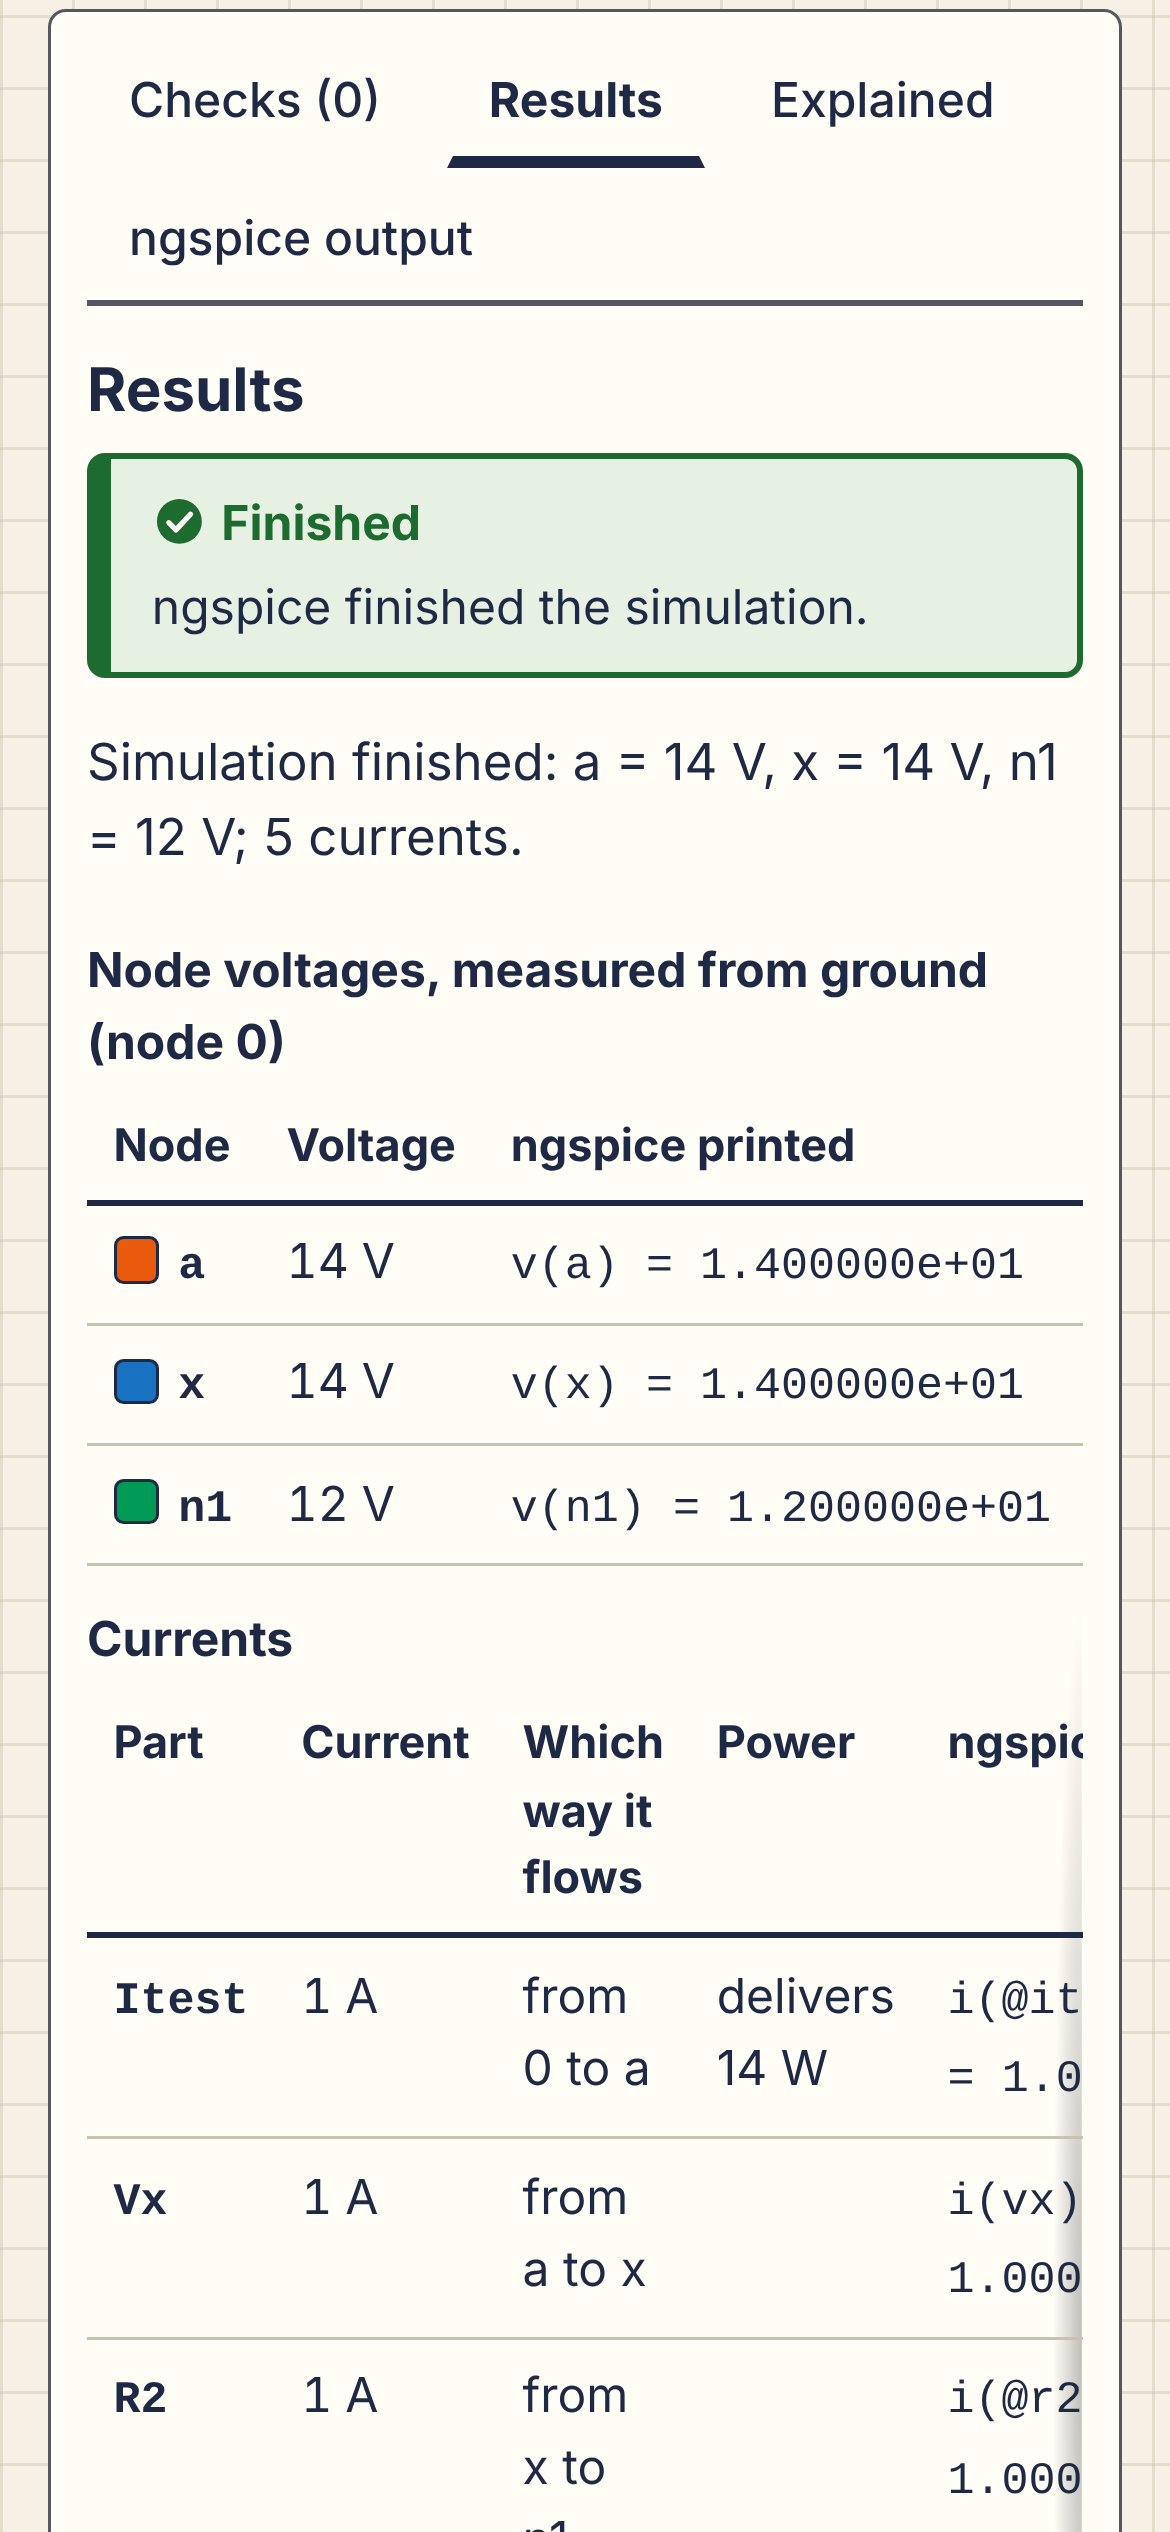
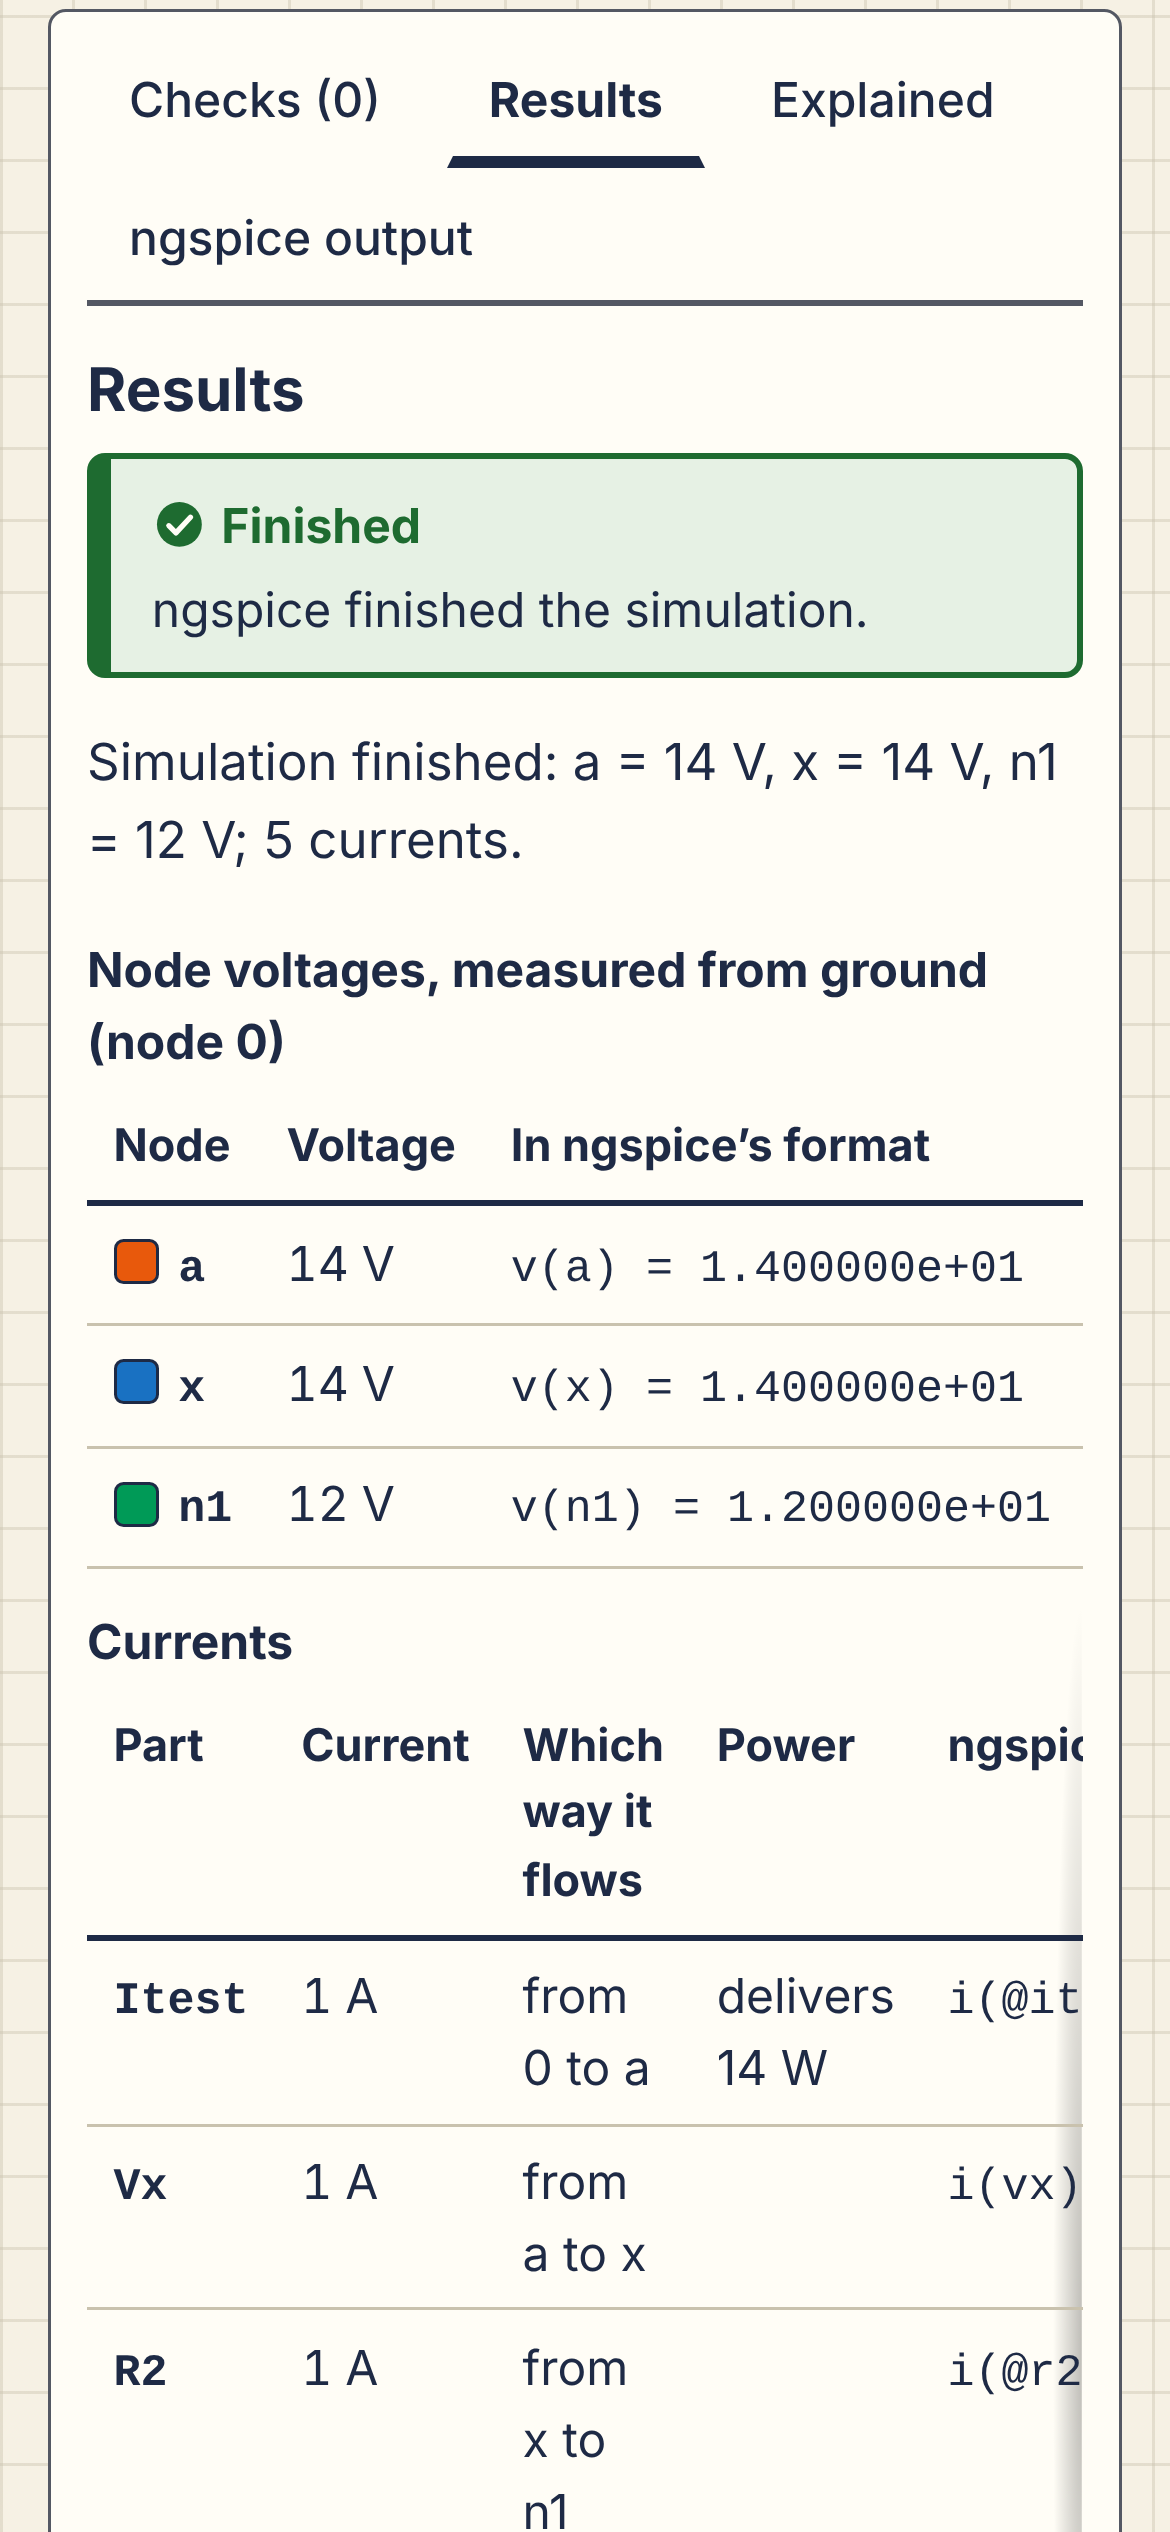
Plan, decisions and screenshots at the end of the first session
- docs/plan.md: what the milestone delivered (with the five reviews and the
  test numbers), the small known gaps, and two new open questions: the
  permanent address before the first video link, and "amps" as the unit word.
- Decision 0012: netlists and links are data, never code (no HTML, no
  programs, bounded work, the student's saved work is never replaced).
- Decisions 0008 and 0009: how links open now; lint in CI; vite preview
  sends the wasm uncompressed.
- The README screenshots again, from the current app.

Claude-Session: https://claude.ai/code/session_01FtBTDfqvG2Mze3biskHuvu

diff --git a/docs/plan.md b/docs/plan.md
@@ -9,7 +9,8 @@
    uPlot behind our own accessible plot module (0004); MIT for our code, the engine under
    ngspice's terms (0005, Tarık); the name PlainSpice (0006, Tarık); CodeMirror 6 (0007); share
    links in the URL fragment (0008); tests and CI (0009); WCAG 2.2 AA (0010); for an operating
-   point, the copy that runs saves every current (0011). Research behind them:
+   point, the copy that runs saves every current (0011); netlists and links are data, never
+   code (0012). Research behind them:
    [docs/research/](research/). EEcircuit studied first: [what we do differently](eecircuit-comparison.md).
 2. **The engine and the spike**: ngspice 47 compiled to WebAssembly (0.62 MB gzip, the chip-design
    models with other licence terms left out), running in a Web Worker exactly like
@@ -20,15 +21,16 @@
    gives the engine's results bit for bit even where an ordinary (XSPICE) build takes different
    time steps. Live: <https://ctbay1.github.io/plainspice/spike/>.
 3. **The netlist-first app**, live at <https://ctbay1.github.io/plainspice/>:
-   - an editor (CodeMirror 6) that highlights each line the way ngspice reads it, with node
-     colours that are colour-blind-safe and never the only signal, and results at the end of each
-     part's line ("3 A, n1 → 0");
+   - an editor (CodeMirror 6) that reads each line the way ngspice does (the title, comments,
+     continuation lines, ground, values), with node colours that are colour-blind-safe and never
+     the only signal, and results at the end of each part's line ("3 A, n1 → 0");
    - every line explained as a field table in plain words, and the whole circuit described in words;
-   - 33 beginner-trap checks with the why and one-click fixes (`1M`, `3A`, no ground, a node with one
-     connection, a current source with no path, duplicate names, unknown first letters …);
+   - 36 beginner-trap checks with the why and one-click fixes (`1M`, `3A`, no ground, a node with one
+     connection, a current source with no path, duplicate names, unknown first letters, a word
+     ngspice stops at, an unknown dot command …);
    - the results in words: node voltages, every current with its direction and each source's power,
      `.tf` results, sweep summaries and ngspice's messages explained; when ngspice's DC solution
-     fails, the numbers are never shown as answers;
+     fails, or a check finds an error, the numbers are never shown as answers;
    - plots for `.dc` and `.tran` with a summary, a keyboard cursor, a data table and CSV;
    - share links (the whole circuit in the link), export for ngspice and LTspice, the brief's
      fixtures as examples, text size, high contrast and reduced motion settings, a help dialog, and
@@ -37,7 +39,19 @@
    Every sentence the app says about how SPICE behaves was run in native ngspice 47 and 42 and in
    our engine first: [docs/spice-facts/](spice-facts/) (numbers and syntax, traps, explanations),
    re-run by the golden tests.
-4. **Tests and CI**: _(filled in at the end of the session)_
+
+   Five independent reviews followed, and every confirmed finding was fixed with a test: the SPICE
+   core ([review.md](spice-facts/review.md), about 20 fixes, checked on 760 netlists including the
+   channel's 63 episode netlists), and four reviews of the app: SPICE wording on screen (one
+   blocker: numbers shown as answers after an error check; fixed), WCAG 2.2 AA, security and
+   robustness ([decision 0012](decisions/0012-netlists-and-links-are-data.md)), and speed on
+   phones (the engine is now downloaded once; typing in a 300-line netlist at 4× CPU slowdown:
+   median 32 ms, was about 130 ms).
+4. **Tests and CI** ([decision 0009](decisions/0009-testing-and-ci.md)): on every push, CI runs
+   the typecheck, lint, 1925 unit tests and 1032 golden and fact tests (the engine against native
+   ngspice, and every SPICE claim), the build, and 39 Playwright tests on a desktop and a phone
+   profile (78 runs, with axe and the WCAG 2.2 AA rules in every main state); the site deploys only
+   when all pass. The README screenshot comes from `npm run screenshot`.
 
 ## Next
 
@@ -54,12 +68,24 @@
   each netlist (CC BY 4.0, decision 0005).
 - **Turkish UI**: the strings are in a catalog (`src/i18n/en.ts`); translate them, and have a
   Turkish speaker review React Aria's tr-TR strings (one plural is already known to be wrong).
+- **Small known gaps**: the editor colours a word after an R, C or L value as a model name even
+  when no `.model` defines it (the check underlines it as an error and explains it; the colour
+  would need the netlist's model names inside CodeMirror's line-by-line highlighter); a
+  `.control` loop that prints forever runs until the 20 s time-out (stopping it earlier needs a
+  change inside the engine).
 - **Later, designed for but not built**: the schematic editor (R, C, L, V, I, E, F, G, H, ground,
   wires, node names), kept in sync with the netlist both ways through `src/spice/`; AC analysis
   with Bode plots (log axes); cursors on plots for measurements; parameter sweeps (families of
   curves; the plot module already recognises nested sweeps).
 
 ## Open questions for Tarık
+
+- **The permanent address, before the first video link goes out.** Links are forever
+  (decision 0008), and `ctbay1.github.io` is shared by every GitHub Pages site of the account,
+  which share local storage and the offline cache with PlainSpice. A custom domain (or a
+  dedicated account) fixes both; if the site ever moves, a forwarding page must stay.
+- "amps" is now the one word for the unit, also when spoken ("3 milliamps"), to match the
+  channel's "amps per volt". Prefer "amperes"? It is one table in `src/format/si.ts`.
 
 - The copyright line in `LICENSE` says "PlainSpice contributors". Do you want your name there?
 - Register "PlainSpice" (and "Solved Circuits") as trademarks? `TRADEMARKS.md` asks people not to

diff --git a/docs/decisions/0012-netlists-and-links-are-data.md b/docs/decisions/0012-netlists-and-links-are-data.md
@@ -1,0 +1,43 @@
+# 0012. Netlists and links are data, never code
+
+- Status: accepted
+- Date: 2026-11-10
+- Evidence: the security and robustness review of 10 November 2026 (findings M1 to M5, m1 to m8)
+
+## Context
+
+Every Solved Circuits video will carry "Open this circuit" links, and anyone can make a link that
+holds any text (decision 0008). A link is opened with one click, often on a phone, sometimes with
+`run=1`. The same netlists also run outside the browser: in the golden tests, the scripts and any
+future check of episode netlists in CI.
+
+## Decision
+
+A netlist, whether typed, pasted or opened from a link, is treated as untrusted data:
+
+- **Never HTML.** The netlist goes only into the editor (as text) and the engine (as a file);
+  nothing from it or from a link is put into the page as HTML. A Content-Security-Policy on the
+  app page (a `<meta>`, since GitHub Pages sets no headers) allows only the site's own scripts,
+  WebAssembly compilation and one hashed inline script, as a second line of defence.
+- **Never a program.** ngspice's `.control` blocks run, but `system()` refuses in every
+  environment (`engine/no-system.js`), so `shell` and `gnuplot` cannot start anything, in the
+  browser or under Node.
+- **Bounded work.** Links are limited before and after unpacking (32,000 characters, 256 kB of
+  text). The app draws at most 50 checks of each severity and underlines at most 200 in the
+  editor; no step of parsing, checking or explaining grows with the square of the netlist's
+  length any more (a 25,000-line link opens in about a second);
+  ngspice's output is kept up to 1 MB per stream; a run stops after 20 s.
+- **Never the student's work.** Opening a link or an example shows that circuit without
+  replacing the netlist the student saved: the opened circuit is saved, and the link leaves the
+  address bar, only when the student edits it.
+
+## Consequences
+
+- A `.control` loop that prints forever runs until the 20 s time-out (with flat memory): an
+  earlier stop would need a change inside the engine.
+- Styles need `'unsafe-inline'` in the policy (CodeMirror and React Aria set styles), and the
+  inline preload script must keep its hash in step: `vite.config.ts` computes it at build time.
+- Native ngspice has no such guard: record only netlists you trust with `scripts/record-native.ts`.
+- The site shares the `ctbay1.github.io` origin, and with it local storage and the service
+  worker's caches, with any other GitHub Pages site of the account: the permanent address should
+  be decided before the first video link goes out (an open question in `docs/plan.md`).

diff --git a/docs/decisions/0008-share-links.md b/docs/decisions/0008-share-links.md
@@ -32,6 +32,15 @@ video descriptions for years, so the format must never break.
   fixture links still decoded. If links ever need to be typed, a checksummed format gets new
   format letters (about 6 more characters); v1 links keep opening.
 
+## As built (10 November 2026)
+
+- Opening a link shows its circuit but does not replace the netlist the student saved: the
+  opened circuit is saved, and the fragment leaves the address bar, at the student's first edit
+  (so a reload before that opens the link again). Examples follow the same rule.
+- A `run=1` link opened while a simulation is running waits for that run to end. While the page
+  is still loading, a `run=1` link starts downloading the engine at once.
+- How hostile links are handled: [decision 0012](0012-netlists-and-links-are-data.md).
+
 ## Consequences
 
 - Links are long but self-contained: they work offline (PWA) and without any server.

diff --git a/docs/decisions/0009-testing-and-ci.md b/docs/decisions/0009-testing-and-ci.md
@@ -37,6 +37,9 @@ Playwright is pinned to the version whose browsers are installed in Claude's clo
 - The e2e tests type every fixture into the editor and check the tables against the hand values
   and native ngspice 47 (the `.dc` and `.tran` CSVs at every point), and run axe with the
   WCAG 2.2 AA tags in 17 states per profile.
+- CI's check job also runs `npm run lint` (oxlint with its accessibility and React rules).
+- `vite preview` sends `ngspice.wasm` uncompressed and with `Cache-Control: no-cache`, so local
+  load measurements overstate the engine download: GitHub Pages sends it gzipped (about 608 KiB).
 - Fonts differ between machines, and layout bugs can hide behind them: the first CI run found a
   lost click at 320 px with large text that only GitHub's wider fonts showed. To try a run with
   fonts like the runners' on a machine with Inter installed:

diff --git a/README.md b/README.md
@@ -40,8 +40,9 @@ tool: [docs/eecircuit-comparison.md](docs/eecircuit-comparison.md).
 First milestone, November 2026: the decisions ([docs/decisions/](docs/decisions/)), the engine
 (checked against native ngspice: [docs/fixture-results.md](docs/fixture-results.md)), the
 netlist-first app, and its tests in CI (unit, golden against native ngspice, and end-to-end with
-accessibility checks on a desktop and a phone). What's next and the open questions:
-[docs/plan.md](docs/plan.md).
+accessibility checks on a desktop and a phone). The app was then reviewed for SPICE wording,
+accessibility, security and speed on phones, and the findings were fixed. What's next and the
+open questions: [docs/plan.md](docs/plan.md).
 
 ## Develop
 

diff --git a/docs/decisions/README.md b/docs/decisions/README.md
@@ -16,6 +16,7 @@ behind them is in [`../research/`](../research/).
 | [0009](0009-testing-and-ci.md) | Unit, golden, fact and end-to-end tests in CI | accepted |
 | [0010](0010-accessibility.md) | WCAG 2.2 AA from day one | accepted |
 | [0011](0011-save-every-current.md) | For an operating point, the copy that runs saves every current | accepted |
+| [0012](0012-netlists-and-links-are-data.md) | Netlists and links are data, never code | accepted |
 
 Also: [what we do differently from EEcircuit](../eecircuit-comparison.md) and the
 [fixture results](../fixture-results.md).
